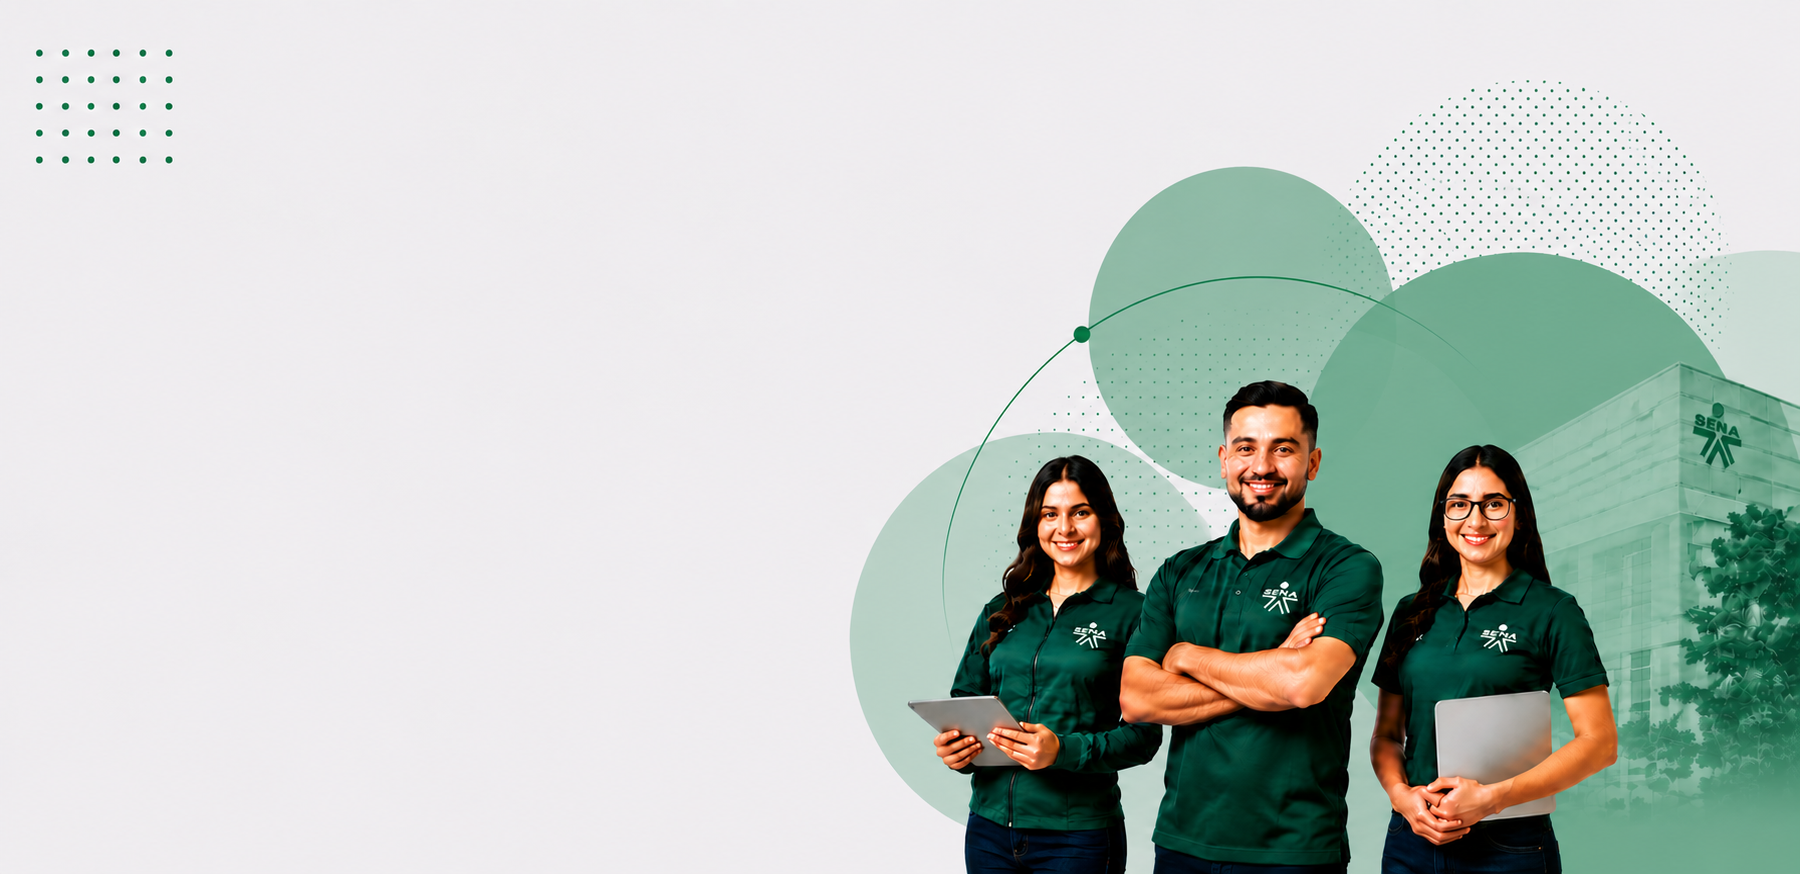
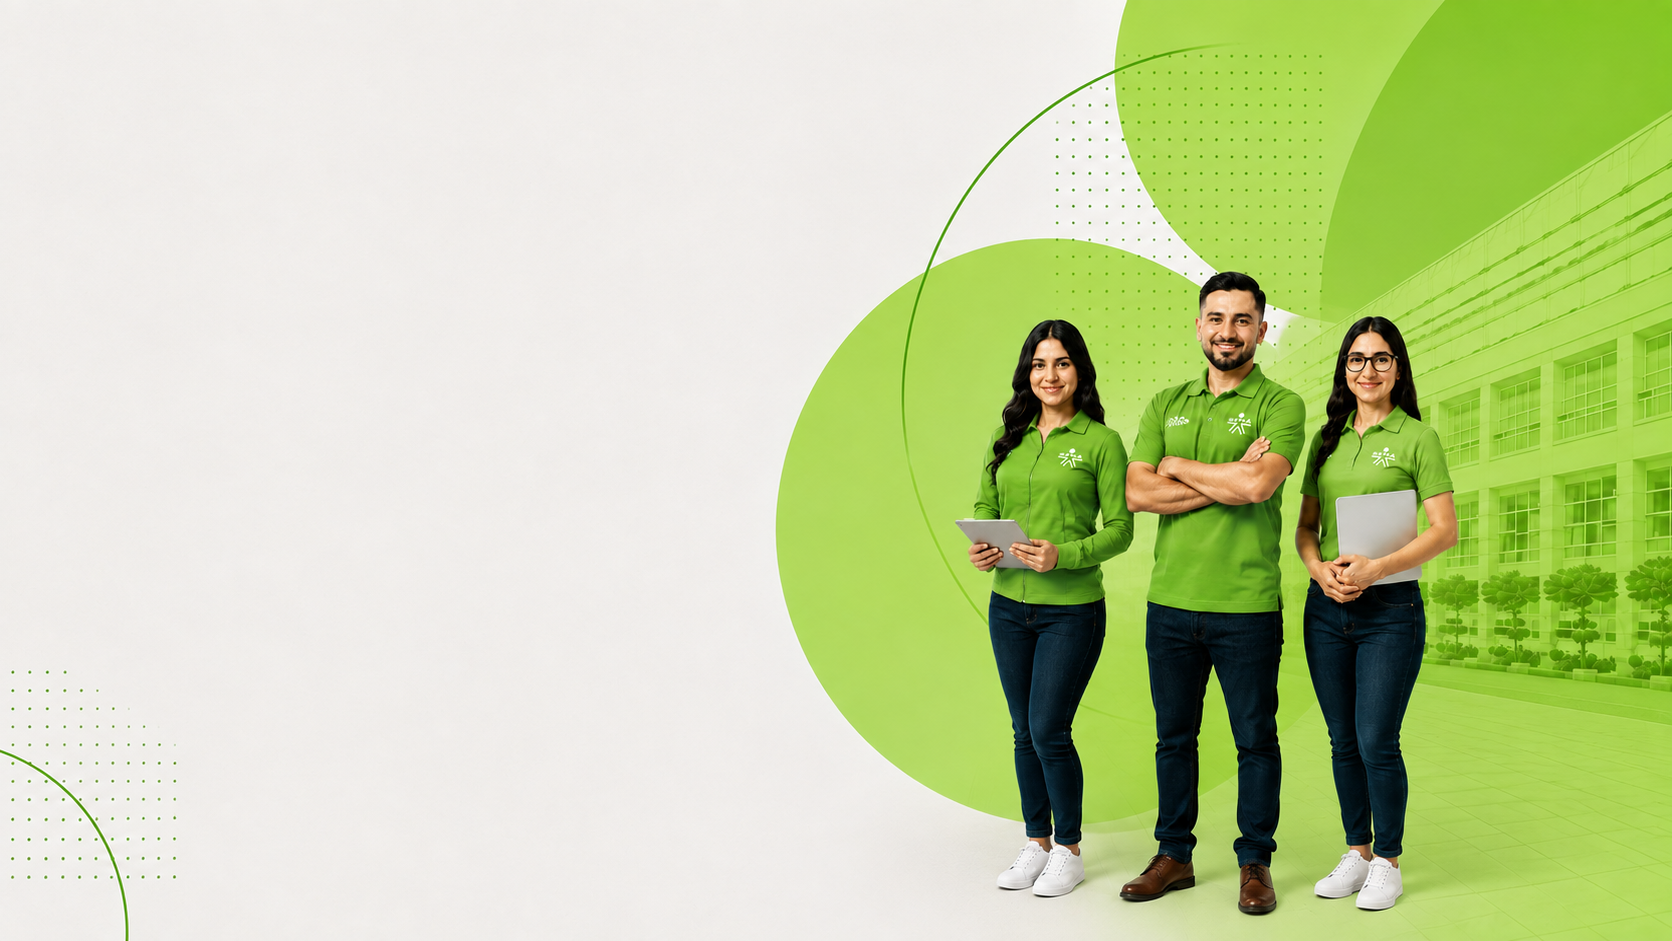
se cambio el fondo

diff --git a/static/style/styleEvelyn.css b/static/style/styleEvelyn.css
@@ -1213,7 +1213,7 @@
 
 
 .hero-instructores {
-    background-position: bottom;
+    background-position: center right;
     padding: 5rem 0 5rem;
     background-image:
         url("../img/fondoinstructores.png");
